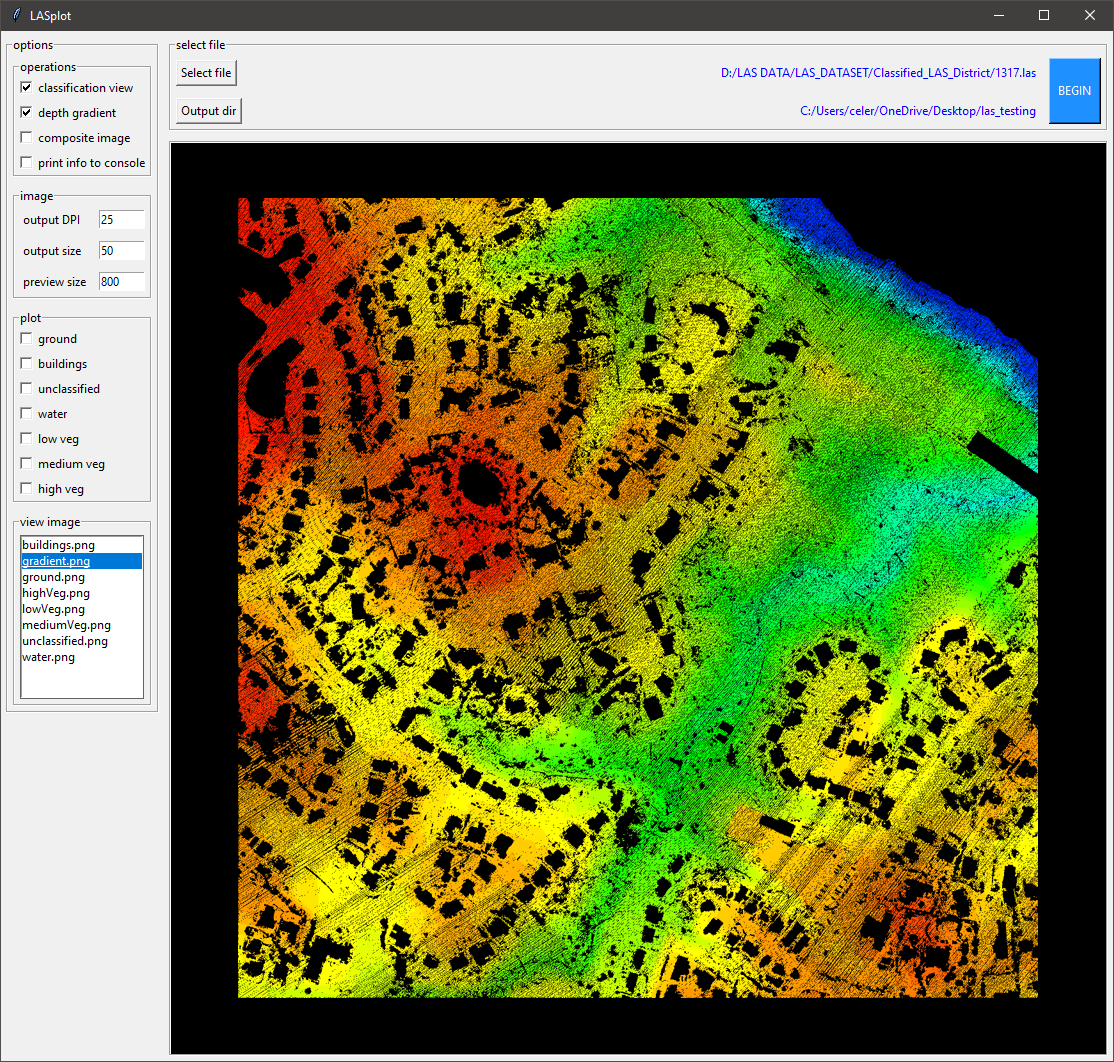
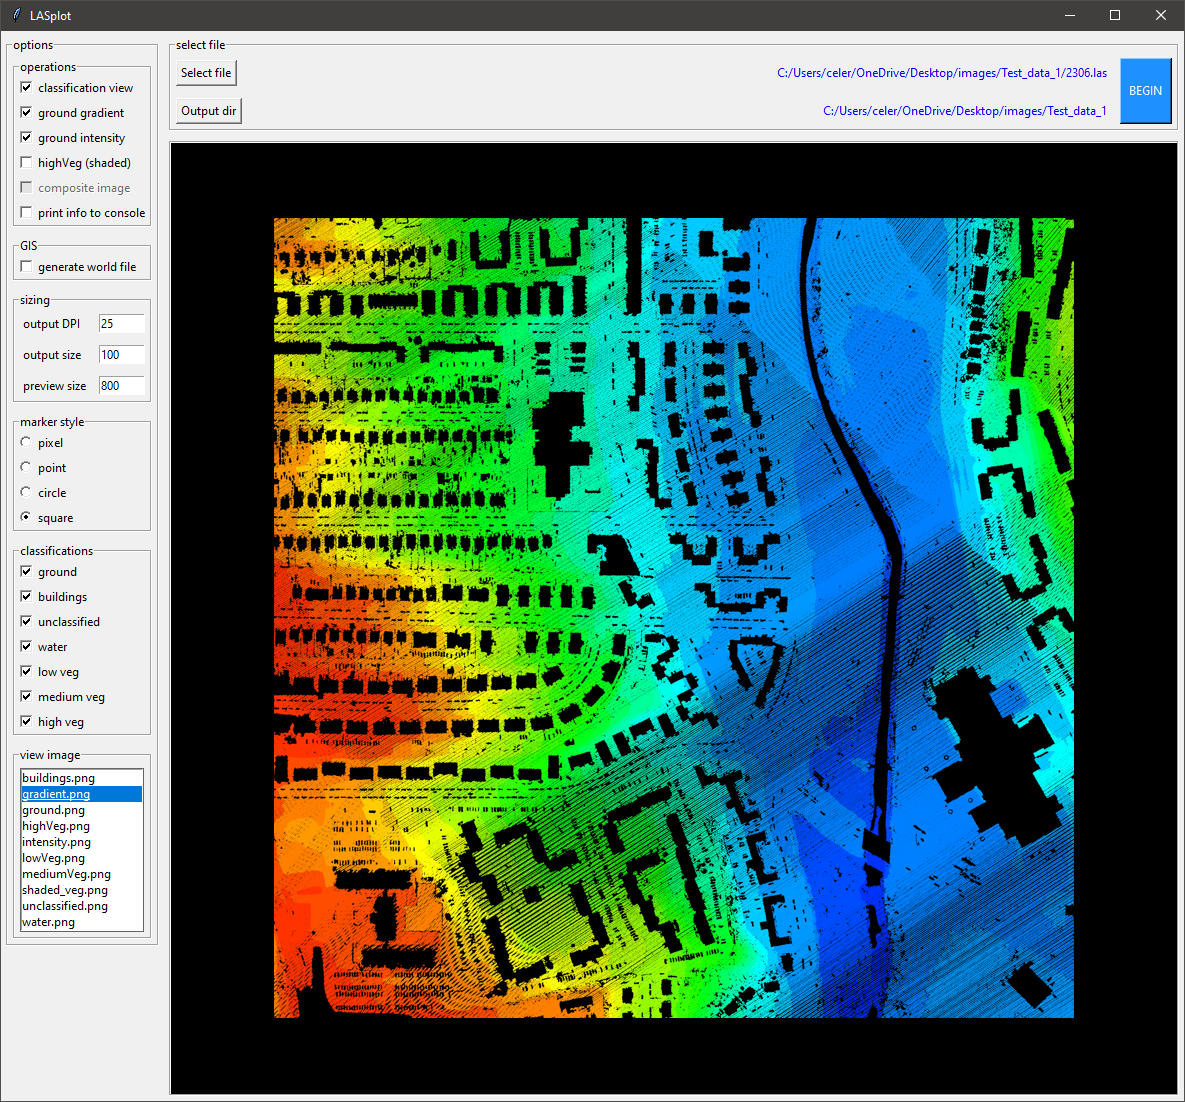
update readme with more current info

diff --git a/README.md b/README.md
@@ -56,7 +56,7 @@ Using the gradient functionality / option in the GUI, users are ables to quickly
 #### Contour
 _Represents the elevation changes within a tile that are characterised by distinct (user defined) elevation intervals. The highest and lowest points of a file are not considered, therefore: a near flat tile will be represented using a single colour._
 
-## Ground and Vegetation intensity analysis:
+## Ground intensity analysis:
 
 **With the following options, users may visualise the return intensity for point records within a file. This is useful for identifying road features and changes in ground layer terrain makeup**
 
@@ -72,6 +72,12 @@ General image options:
 - 'DPI' *the detail of the output image*
 - 'Preview size' *the size of the image rendered in the window (in pixels)*
 
+Plotting marker options:
+- Pixel (plot each point as a single pixel)
+- Point (plot each point as a small, fixed size point)
+- Circle (larger plots in shape of a circle)
+- Square (larger points in shape of a square)
+
 Plot options:
 - Select which layers to plot *(based on LAS point record classification)*
 
@@ -79,7 +85,6 @@ With options to generate the following image files:
 - [x] 'plots' *individual layers, separated by LAS classification*
 - [x] 'terrain gradient' *elevation gradient showing a the high and low points of the file*
 - [x] 'terrain intensity' *representation of the point record intensity associated with ground classification*
-- [x] 'vegetation intensity' *representation of the point record intensity associated with vegetation classification*
 - [ ] 'terrain contour' *(2 color) banding to reflect relative changes in local ground elevation*
 - [ ] 'composite image' *main classification layers painted in appropriate colours (single image)*
 - [x] 'file information' *general information about the file and header specifications*
